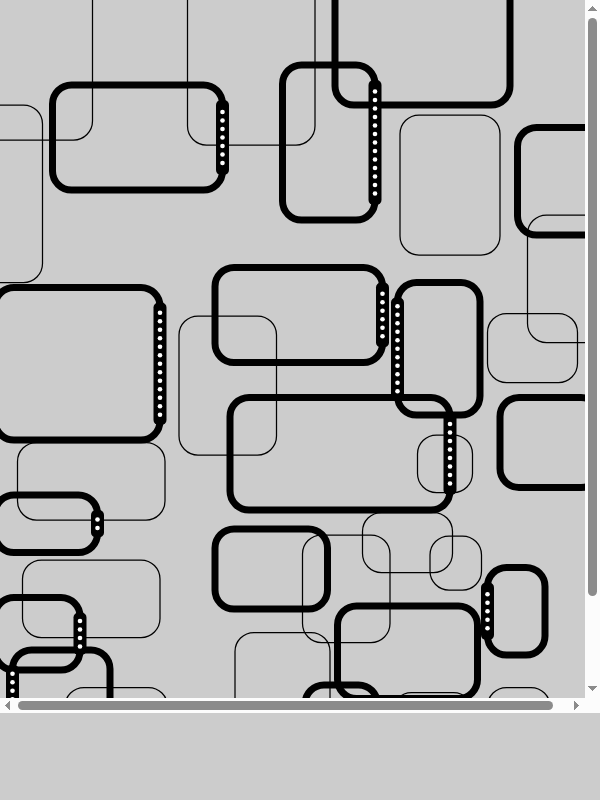
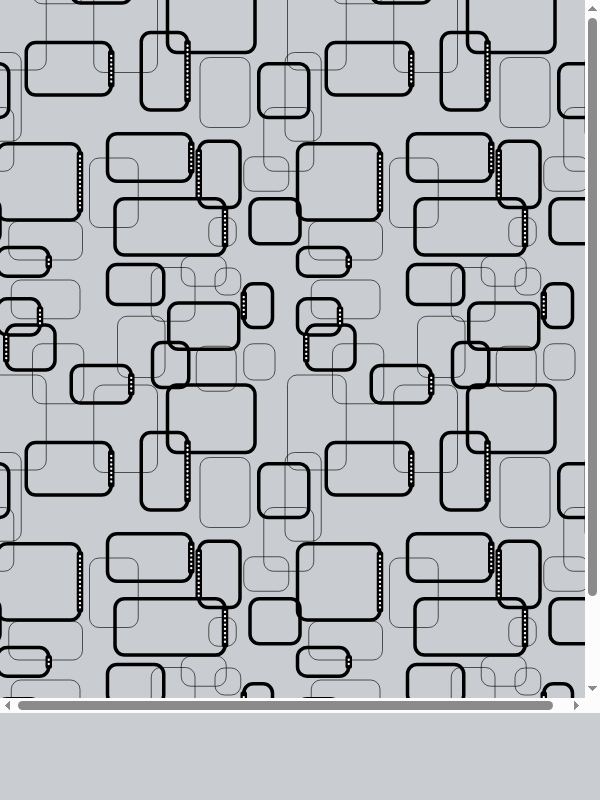
Make laminate pattern a seamless repeating tile
Claude-Session: https://claude.ai/code/session_01HCSH3YKAikw2Kc1N1qTE76

Changed region(s): [[0.0, 0.0, 0.99, 0.875]]

diff --git a/laminate-pattern/generate.py b/laminate-pattern/generate.py
@@ -20,26 +20,35 @@ thin = [
  (725,1025,180,120),
 ]
 
+OFFS = [(dx*W, dy*H) for dx in (-1,0,1) for dy in (-1,0,1)]   # wrap copies => seamless repeat
+
+def visible(x,y,w,h,dx,dy):   # skip copies that fall fully outside the tile
+    return x+dx < W+THICK and x+w+dx > -THICK and y+dy < H+THICK and y+h+dy > -THICK
+
 o = [f'<svg xmlns="http://www.w3.org/2000/svg" viewBox="0 0 {W} {H}" width="{W}" height="{H}">',
-     '<title>Retro rounded-rectangle laminate pattern</title>',
+     '<title>Retro rounded-rectangle laminate pattern - seamless tile, black on frosted</title>',
      f'<defs><clipPath id="art"><rect width="{W}" height="{H}"/></clipPath></defs>',
-     f'<rect id="bg" width="{W}" height="{H}" fill="none"/>',
      '<g clip-path="url(#art)" fill="none" stroke-linejoin="round">',
      f'<g id="thin-lines" stroke="{INK}" stroke-width="{THIN}">']
-for x,y,w,h in thin:
-    o.append(f'<rect x="{x}" y="{y}" width="{w}" height="{h}" rx="{R}"/>')
+for dx,dy in OFFS:
+    for x,y,w,h in thin:
+        if visible(x,y,w,h,dx,dy):
+            o.append(f'<rect x="{x+dx}" y="{y+dy}" width="{w}" height="{h}" rx="{R}"/>')
 o.append('</g>')
 o.append(f'<g id="thick-frames" stroke="{INK}" stroke-width="{THICK}">')
-for x,y,w,h,d in thick:
-    o.append(f'<rect x="{x}" y="{y}" width="{w}" height="{h}" rx="{R}"/>')
+for dx,dy in OFFS:
+    for x,y,w,h,d in thick:
+        if visible(x,y,w,h,dx,dy):
+            o.append(f'<rect x="{x+dx}" y="{y+dy}" width="{w}" height="{h}" rx="{R}"/>')
 o.append('</g><g id="dotted-bands">')
-for x,y,w,h,d in thick:
-    if not d: continue
-    bx = x+w-13 if d=='r' else x-13          # band centred on the edge
-    o.append(f'<rect x="{bx}" y="{y+R-8}" width="26" height="{h-2*R+16}" fill="{INK}" stroke="none" rx="10"/>')
-    cx = bx+13; n = int((h-2*R)//17)
-    y0 = y+h/2-(n-1)*17/2
-    o.append('<g fill="#ffffff" stroke="none">' +
-             ''.join(f'<circle cx="{cx:.1f}" cy="{y0+i*17:.1f}" r="4.6"/>' for i in range(n)) + '</g>')
+for dx,dy in OFFS:
+    for x,y,w,h,d in thick:
+        if not d or not visible(x,y,w,h,dx,dy): continue
+        x+=dx; y+=dy
+        bx = x+w-13 if d=='r' else x-13
+        o.append(f'<rect x="{bx}" y="{y+R-8}" width="26" height="{h-2*R+16}" fill="{INK}" stroke="none" rx="10"/>')
+        cx = bx+13; n = int((h-2*R)//17); y0 = y+h/2-(n-1)*17/2
+        o.append('<g fill="#ffffff" stroke="none">' +
+                 ''.join(f'<circle cx="{cx:.1f}" cy="{y0+i*17:.1f}" r="4.6"/>' for i in range(n)) + '</g>')
 o.append('</g></g></svg>')
 open('laminate_pattern.svg','w').write('\n'.join(o))
